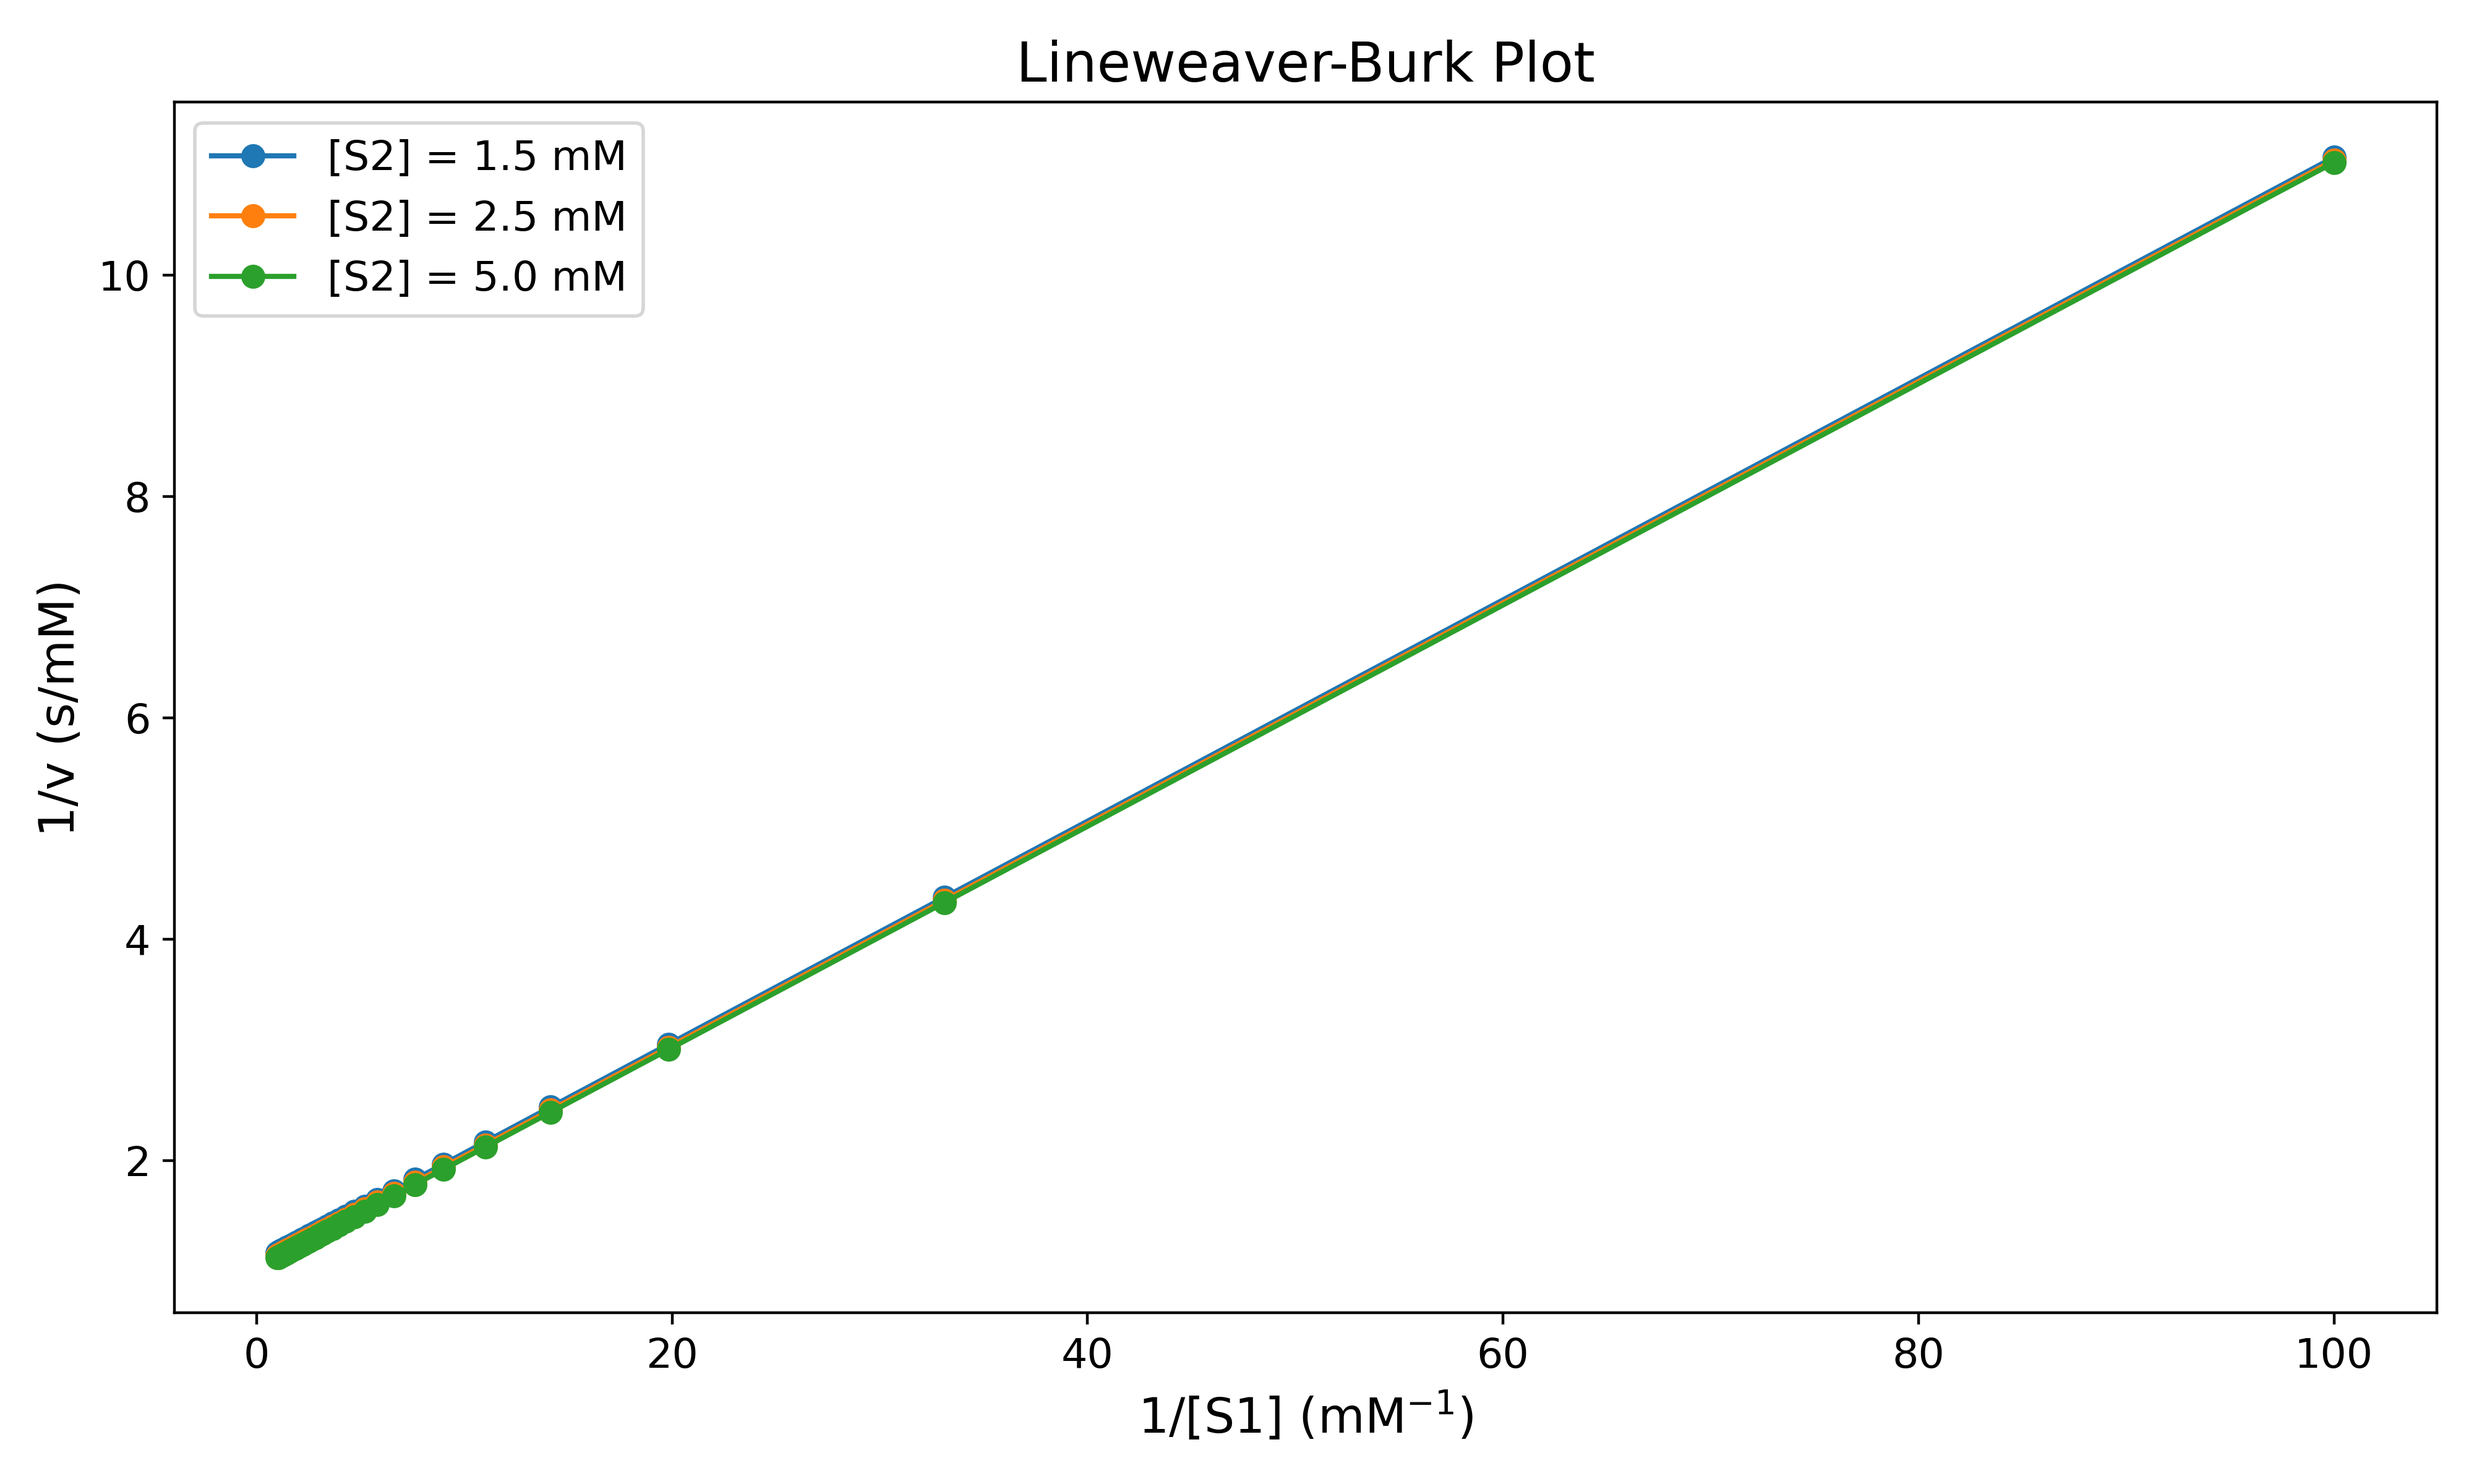
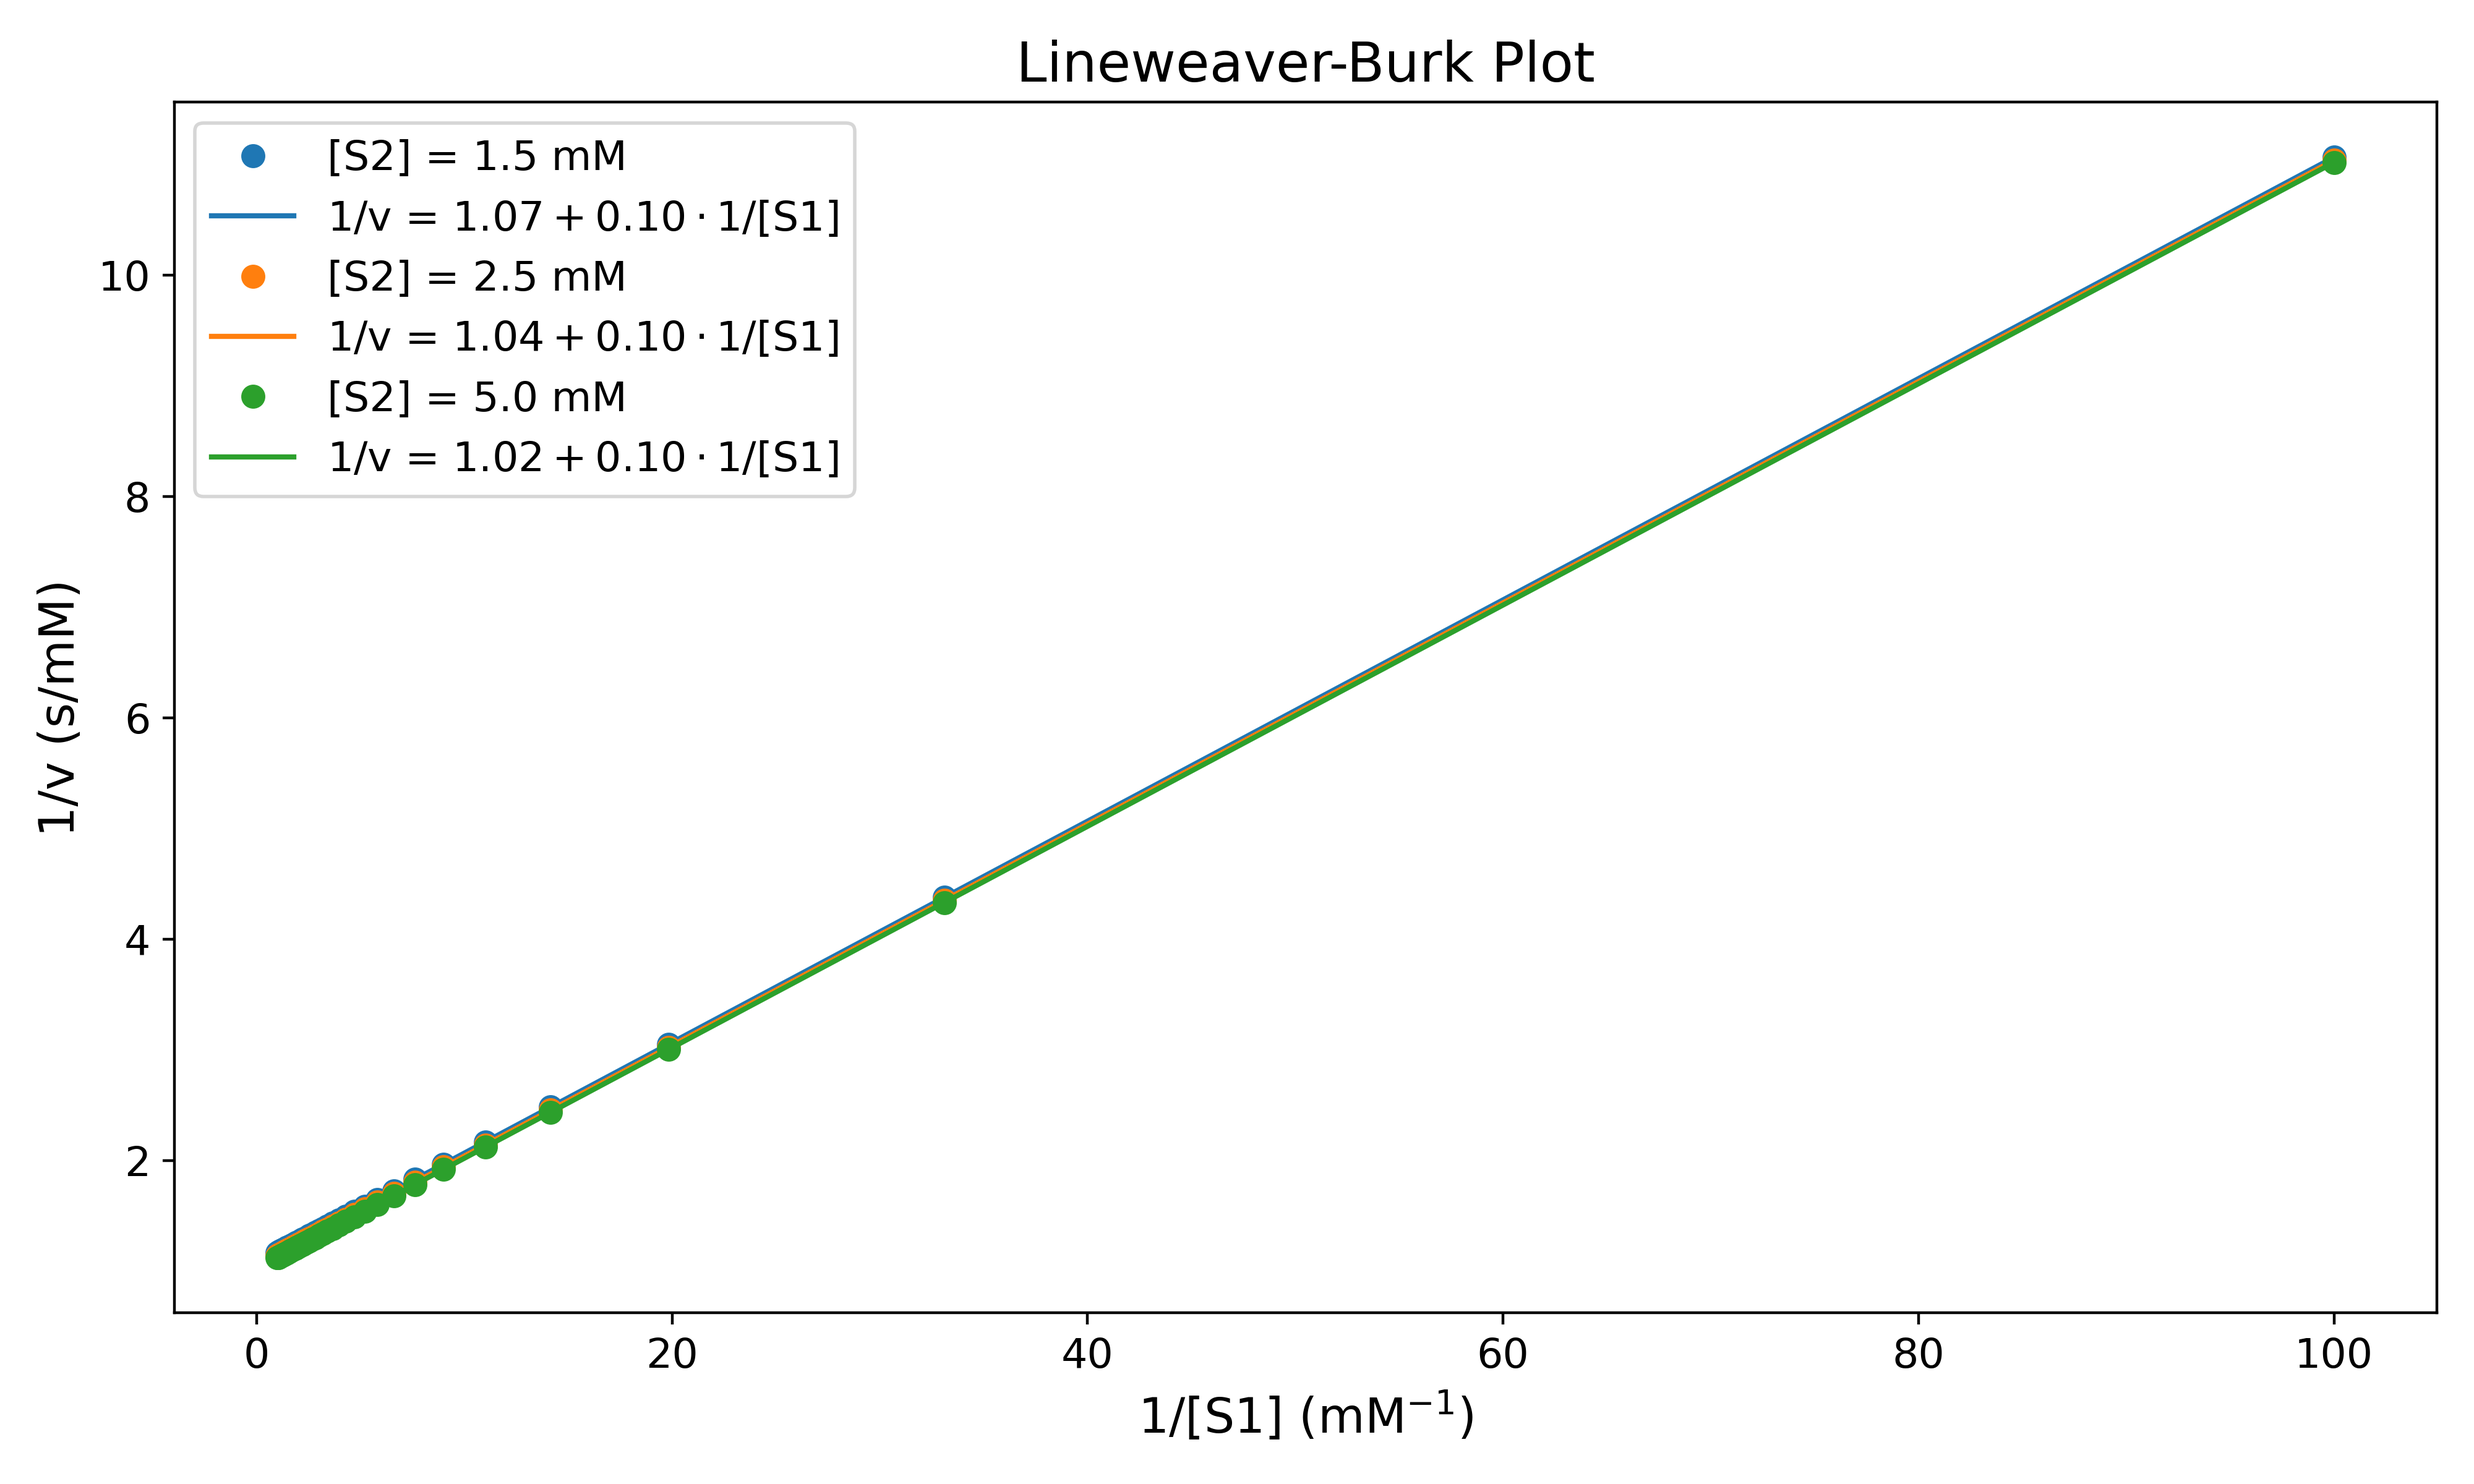
update to line-weightsplots

Changed region(s): [[0.0938, 0.125, 0.3438, 0.3438], [0.125, 0.3125, 0.1562, 0.3438]]

diff --git a/main.py b/main.py
@@ -193,17 +193,16 @@ def compare_output(tuple_output: tuple, titles: tuple) -> str:
             print(f"Chi-squared: {output[1]:.4f}")
             print(f"Parameters: {output[2]}\n")
 
-    print(stats_param)
-    data = list(zip(titles, tuple_output))
-    result = None
+    # data = list(zip(titles, tuple_output))
+    # result = None
 
-    for idx, (name, (v1, v2)) in enumerate(data):
-        if all(v1 < other[1][0] for i, other in enumerate(data) if i != idx) and all(
-            v2 > other[1][1] for i, other in enumerate(data) if i != idx
-        ):
-            result = (name, (v1, v2))
-            break
-    print(result)
+    # for idx, (name, (v1, v2)) in enumerate(data):
+    #     if all(v1 < other[1][0] for i, other in enumerate(data) if i != idx) and all(
+    #         v2 > other[1][1] for i, other in enumerate(data) if i != idx
+    #     ):
+    #         result = (name, (v1, v2))
+    #         break
+    # print(result)
 
 
 def simulate_data(
@@ -251,6 +250,52 @@ def simulate_data(
     return simulated_data
 
 
+def fit_k2(
+    km2_results: list,
+    S2: float,
+    V_max: float,
+    K_m1: float,
+    S1: float = 1.0,
+    K_m2: float = 0.1,
+) -> list:
+    """
+    Fit K_m2 using the ping-pong model.
+
+    Params
+    ------
+    - km2_results (list): List to store the results.
+    - S2 (float): Concentration of substrate 2.
+    - V_max (float): Maximum reaction rate.
+    - K_m1 (float): Michaelis constant for substrate 1.
+    - S1 (float): Concentration of substrate 1. Default is 1.0.
+    - K_m2 (float): Initial Michaelis constant for substrate 2. Default is 0.1.
+
+    Returns
+    -------
+    - list: Updated km2_results with the fitted K_m2 values.
+    """
+    v_fixed = ping_pong_model((S1, S2), V_max, K_m1, K_m2)
+
+    K_m2 = calculate_k2(
+        S1,
+        S2,
+        v_fixed,
+        V_max,
+        K_m1,
+    )
+    km2_results.append(
+        {
+            "S1": S1,
+            "S2": S2,
+            "v": v_fixed,
+            "V_max": V_max,
+            "K_m1": -K_m1,
+            "K_m2": K_m2,
+        }
+    )
+    return km2_results
+
+
 def plot_eadie_hofstee(df: pd.DataFrame, save=False) -> None:
     """
     Plot the Eadie-Hofstee plot for the given data.
@@ -263,37 +308,17 @@ def plot_eadie_hofstee(df: pd.DataFrame, save=False) -> None:
     plt.figure(figsize=FIG_SIZE)
     km2_results = []
 
-    s2_values = df["S2"].unique()
-    for s2 in s2_values:
-        df_substrate = df[df["S2"] == s2]
+    S2_values = df["S2"].unique()
+    for S2 in S2_values:
+        df_substrate = df[df["S2"] == S2]
         S1 = df_substrate["S1"].values
         v = df_substrate["Rate"].values
         v_S1 = v / S1
 
         K_m1, V_max = np.polyfit(v_S1, v, 1)
+        km2_results = fit_k2(km2_results, S2, V_max, K_m1)
 
-        S1_fixed = 1.0
-        v_fixed = ping_pong_model((S1_fixed, s2), V_max, K_m1, 0.1)
-
-        K_m2 = calculate_k2(
-            S1_fixed,
-            s2,
-            v_fixed,
-            V_max,
-            K_m1,
-        )
-        km2_results.append(
-            {
-                "S1": S1_fixed,
-                "S2": s2,
-                "v": v_fixed,
-                "V_max": V_max,
-                "K_m1": -K_m1,
-                "K_m2": K_m2,
-            }
-        )
-
-        plt.scatter(v_S1, v, label=f"[S2] = {s2} mM")
+        plt.scatter(v_S1, v, label=f"[S2] = {S2} mM")
         plt.plot(
             v_S1,
             K_m1 * v_S1 + V_max,
@@ -332,7 +357,18 @@ def plot_lineweaver_burk(df: pd.DataFrame, save=False) -> None:
     for s2, group in df.groupby("S2"):
         inv_S1 = 1 / group["S1"]
         inv_Rate = 1 / group["Rate"]
-        plt.plot(inv_S1, inv_Rate, "o-", label=f"[S2] = {s2} mM")
+
+        slope, intercept = np.polyfit(inv_S1, inv_Rate, 1)
+        y_fit = slope * inv_S1 + intercept
+
+        plt.plot(inv_S1, inv_Rate, "o", label=f"[S2] = {s2} mM")
+        plt.plot(
+            inv_S1,
+            y_fit,
+            "-",
+            label=f"1/v = ${intercept:.2f} + {slope:.2f}\\cdot$1/[S1]",
+            color=plt.gca().lines[-1].get_color(),
+        )
 
     plt.xlabel(r"1/[S1] (mM$^{{-1}})$")
     plt.ylabel(r"1/v (s/mM)")
@@ -347,75 +383,6 @@ def plot_lineweaver_burk(df: pd.DataFrame, save=False) -> None:
         plt.show()
 
 
-def plot_feasible_region(
-    v6_max: float,
-    vmax: float,
-    succ: float,
-    fum: float,
-    km: float,
-    d_target: float,
-    save=False,
-) -> None:
-    """
-    Plot the feasible region for the given parameters.
-
-    Params
-    ------
-    - v6_max (float): Maximum reaction rate for the sixth reaction.
-    - vmax (float): Maximum reaction rate for the first reaction.
-    - succ (float): Concentration of succinate.
-    - fum (float): Concentration of fumarate.
-    - km (float): Michaelis constant.
-    - d_target (float): Target difference between v1 and v6.
-    - save (bool): Whether to save the plot. Default is False.
-    """
-    v6_MM = vmax * (succ / (km + succ)) - vmax * (fum / (km + fum))
-    v6_effective = min(v6_MM, v6_max)
-
-    v1_values = np.linspace(0, v6_effective, 100)
-    v6_diagonal = v1_values.copy()
-
-    v6_horizontal = v6_effective * np.ones_like(v1_values)
-
-    d_line = d_target + v1_values
-
-    plt.figure(figsize=FIG_SIZE)
-    plt.plot(v1_values, v6_diagonal, "r--", linewidth=2, label=r"$v_6 = v_1$")
-    plt.plot(
-        v1_values,
-        v6_horizontal,
-        "b-",
-        linewidth=2,
-        label=r"$v_6 \leq v_{6,\max}$",
-    )
-    plt.fill_between(
-        v1_values,
-        v6_diagonal,
-        v6_horizontal,
-        color="gray",
-        alpha=0.3,
-        label=r"Feasible Region: $v_1 < v_6 \leq$ $v_{6,max}$",
-    )
-    plt.plot(
-        v1_values, d_line, "m-", linewidth=2, label=r"$v_6 = v_1 + D_{\rm target}$"
-    )
-
-    plt.xlabel(r"$v_1$")
-    plt.ylabel(r"$v_6$")
-    plt.title("Solution Space in ($v_1$, $v_6$)")
-    plt.xlim(0, v6_effective + 0.5)
-    plt.ylim(0, v6_effective + 0.5)
-    plt.grid()
-    plt.legend()
-
-    plt.tight_layout()
-    if save:
-        plt.savefig("results/feasible_region.png", dpi=FIG_DPI)
-        plt.close()
-    else:
-        plt.show()
-
-
 def main():
     #### Q1 ####
     data = pd.read_csv("data/Kinetics.csv")
@@ -424,32 +391,19 @@ def main():
     seq_output = fit_sequential_bisubstrate(data, sequential_model)
     seq_rand_output = fit_sequential_bisubstrate(data, sequential_random_model)
     ping_output = fit_sequential_bisubstrate(data, ping_pong_model)
-    model_str = compare_output(
+    compare_output(
         (seq_output, seq_rand_output, ping_output),
         ("Sequential", "Random", "Ping Pong"),
     )
 
     s2_range = [1.5, 2.5, 5.0]
     sim_amount = 100
-
-    if model_str == "seq":
-        df_simulated_data = simulate_data(
-            sequential_model, data, s2_range, simulate_amount=sim_amount
-        )
-    elif model_str == "ping":
-        df_simulated_data = simulate_data(
-            ping_pong_model, data, s2_range, simulate_amount=sim_amount
-        )
-    else:
-        raise ValueError("Both models are equally good or bad.")
+    df_simulated_data = simulate_data(
+        ping_pong_model, data, s2_range, simulate_amount=sim_amount
+    )
 
     plot_eadie_hofstee(df_simulated_data, save=True)
     plot_lineweaver_burk(df_simulated_data, save=True)
-
-    #### Q2 ####
-    plot_feasible_region(
-        v6_max=10.0, vmax=12.0, succ=5.0, fum=1.0, km=6.0, d_target=1.0, save=True
-    )
 
 
 if __name__ == "__main__":
